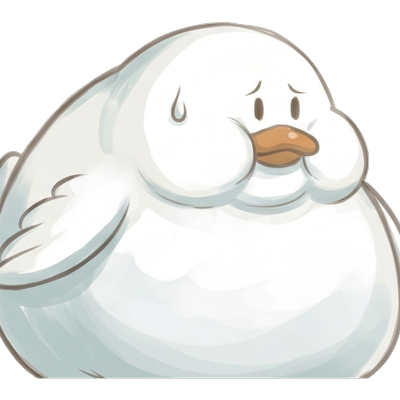
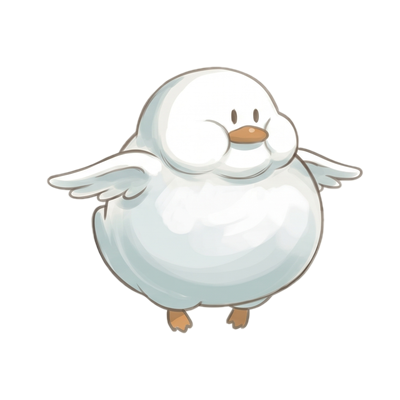
feat(game): mon 15 khong win, chase mode bay duoi la thu
User feedback:
- An mon 15 (tra sua) -> win luon (sai)
- Phai an mon 16 (la thu) moi win
- Sau khi an mon 15 -> bay vao vung khong co cot, duoi theo la thu
- Vịt bay nhanh hon thu 1 chut (~10s)
- La thu cung bay va chuyen dong

Moi:
- TARGET_SCORE 15 -> 16 (15 tra + 1 la thu)
- LETTER_TRIGGER_SCORE = 15 (moc trigger chase mode)
- KG math: 14 mon × 3 = 42 -> 72kg, mon 15 (tra) +3 = 75kg, mon 16 (la thu) +5 = 80kg
- LETTER_KG_BONUS 8 -> 5
- state machine: them 'chasing' state
- triggerChaseMode(): xoa het pipes, spawn la thu o giua canvas phai
  - La thu co vx, vy rieng, bay tu phai sang trai
  - flyStartY random trong +-50px
- updateChase(): la thu bay voi quy dao sin (lac), vịt gravity 0.4x, wingPhase 0.55 (nhanh hon)
- Collision chase: hitbox 35px (rong hon de de an)
- La thu bay ra khoi canvas trai -> respawn ben phai (vong lap, de an)
- Vịt gioi han trong canvas (khong roi)
- spawnPipe: khong spawn item neu state === 'chasing'

Recrop sprite (re-crop_duck_proper.py):
- 5 sprite vịt cu bi can chan o ria -> vang vuong
- Fix: tìm bbox body that (pixel khac trang), crop + padding 50px
- Resize fit TARGET_SIZE voi SAFE_MARGIN 30px (body khong cham ria)
- Result: margin 30-49px, body can doi
- 80kg: margin 30px (truoc 0px), 70kg: 45px (truoc 17px)

Cac sprite đã re-crop:
- duck-{30,45,60,70,80}kg-f{1,2,3}.png (15 file)

diff --git a/tmn/index.html b/tmn/index.html
@@ -1504,12 +1504,16 @@ Chúc cô gái của Nhân 20/10 thật vui vẻ và bình an nhé!</textarea>
       const PIPE_SPACING = 320;      // khoảng cách giữa các cặp ống
       const BIRD_X = 140;             // vị trí vịt cố định theo X
       const BIRD_RADIUS = 36;        // hitbox vịt (dùng cho collision) - frame 1.5x lớn hơn
-      const TARGET_SCORE = 15;       // lụm 15 món = win
-      const WIN_KG = 80;             // đạt 80kg = win (ăn 15 món × 5 = 75, món 15 = 80)
+      const TARGET_SCORE = 16;       // 15 trà/bún + 1 lá thư = 16 món = win
+      const LETTER_TRIGGER_SCORE = 15;  // mốc spawn lá thư + vào chase state
+      const WIN_KG = 80;             // đạt 80kg = win
       const BASE_KG = 30;
-      const KG_PER_ITEM = 3;         // 14 món đầu × 3 = 42 → 72kg; món 15 (lá thư) +8 → 80kg
-      const LETTER_KG_BONUS = 8;     // lá thư cho nhiều kg hơn (món cuối)
+      const KG_PER_ITEM = 3;         // 14 món đầu × 3 = 42 → 72kg
+      const LETTER_KG_BONUS = 5;     // lá thư +5kg → 80kg
       const MAX_KG = WIN_KG;         // 80
+      // Chase state: lá thư bay tự do, vịt đuổi theo
+      const LETTER_FLY_SPEED = 1.6;  // lá thư bay chậm hơn PIPE_SPEED (2.6)
+      const CHASE_BOOST = 1.4;       // vịt bay nhanh hơn 40% khi chase
 
       // Mật khẩu (security through obscurity - base64)
       // User đặt riêng: "171" (Ngọc sinh ngày 17/1/2007)
@@ -1622,6 +1626,32 @@ Chúc cô gái của Nhân 20/10 thật vui vẻ và bình an nhé!</textarea>
       let animId = null;
 
       // Spawn pipe mỗi PIPE_SPACING px
+      // ===== CHASE MODE (sau khi ăn 15 món) =====
+      // Lá thư tự bay, vịt đuổi theo, KHÔNG có ống chướng ngại
+      let chaseTime = 0;  // đếm frame trong chase
+      function triggerChaseMode() {
+        console.log('[tmn] CHASE MODE triggered! Lá thư xuất hiện...');
+        state = 'chasing';
+        chaseTime = 0;
+        // Xóa hết ống cũ → vùng trời trống
+        pipes = [];
+        // Spawn lá thư ở giữa bên phải canvas
+        const letterStartX = CANVAS_W - 100;
+        const letterStartY = CANVAS_H / 2;
+        // Lá thư có vận tốc riêng: bay từ phải sang trái + lắc Y (sin)
+        items.push({
+          x: letterStartX,
+          y: letterStartY,
+          isLetter: true,
+          collected: false,
+          wobblePhase: 0,
+          vx: -LETTER_FLY_SPEED,  // bay sang trái
+          vy: 0,
+          flyStartX: letterStartX,
+          flyStartY: letterStartY,
+        });
+      }
+
       function spawnPipe() {
         const minGapY = 150;
         const maxGapY = CANVAS_H - 150 - PIPE_GAP;
@@ -1632,16 +1662,8 @@ Chúc cô gái của Nhân 20/10 thật vui vẻ và bình an nhé!</textarea>
         const itemX = CANVAS_W + 50 + PIPE_SPACING / 2;
         const itemY = gapY + PIPE_GAP / 2 - 30;  // giữa gap, trừ 30 để căn giữa item
 
-        // Món cuối (sau khi ăn 14 món) = lá thư → vịt ăn → màn hình win
-        if (score >= TARGET_SCORE - 1 && collectibles.length > 0) {
-          items.push({
-            x: itemX, y: itemY,
-            isLetter: true,         // marker vẽ lá thư bằng code
-            collected: false,
-            wobblePhase: Math.random() * Math.PI * 2,
-          });
-          return;
-        }
+        // Không spawn item nếu đang ở chase mode (lá thư do triggerChaseMode spawn riêng)
+        if (state === 'chasing') return;
 
         if (collectibles.length === 0) return;
         const sprite = collectibles[Math.floor(Math.random() * collectibles.length)];
@@ -1651,8 +1673,17 @@ Chúc cô gái của Nhân 20/10 thật vui vẻ và bình an nhé!</textarea>
 
       // ===== UPDATE LOOP =====
       function update() {
-        if (state !== 'playing') return;
+        if (state === 'idle' || state === 'won' || state === 'lost') return;
         frameCount++;
+        chaseTime++;
+
+        // CHASING MODE: lá thư bay tự do, vịt đuổi
+        if (state === 'chasing') {
+          updateChase();
+          return;
+        }
+
+        // PLAYING MODE (còn lại như cũ)
 
         // Spawn pipe đầu tiên sau 60 frame (~1s warmup)
         if (frameCount === 60) spawnPipe();
@@ -1710,6 +1741,10 @@ Chúc cô gái của Nhân 20/10 thật vui vẻ và bình an nhé!</textarea>
               gameWin();
               return;
             }
+            // Mốc 15 món trà/bún → trigger chase mode (sau 100ms)
+            if (score === LETTER_TRIGGER_SCORE && !it.isLetter) {
+              setTimeout(() => triggerChaseMode(), 100);
+            }
           }
         }
 
@@ -1717,6 +1752,53 @@ Chúc cô gái của Nhân 20/10 thật vui vẻ và bình an nhé!</textarea>
         if (bird.y + BIRD_RADIUS >= CANVAS_H || bird.y - BIRD_RADIUS <= 0) {
           gameOver();
         }
+      }
+
+      // ===== CHASE MODE UPDATE =====
+      // Lá thư tự bay + vịt đuổi theo, KHÔNG có ống chướng ngại
+      function updateChase() {
+        for (const it of items) {
+          if (!it.isLetter || it.collected) continue;
+          // Bay từ phải sang trái (vx < 0)
+          it.x += it.vx;
+          // Lắc theo sin: quỹ đạo cong
+          it.y = (it.flyStartY || CANVAS_H / 2) + Math.sin(chaseTime * 0.04) * 80;
+          // Wobble nhẹ (cho lá thư vẫn rung)
+          it.wobblePhase = (it.wobblePhase || 0) + 0.08;
+          // Bay ra khỏi canvas bên trái → respawn từ phải (dễ ăn hơn)
+          if (it.x < -50) {
+            it.x = CANVAS_W + 50;
+            it.flyStartY = CANVAS_H / 2 + (Math.random() - 0.5) * 100;
+          }
+        }
+
+        // Vịt gravity nhẹ (dễ bay hơn trong chase)
+        bird.vy += GRAVITY * 0.4;
+        bird.y += bird.vy;
+        bird.vy = Math.max(-12, Math.min(12, bird.vy));
+        bird.rotation = Math.max(-0.5, Math.min(1.2, bird.vy * 0.06));
+        // Wing animation nhanh hơn (đang đuổi!)
+        bird.wingPhase += 0.55;
+
+        // Collision: vịt với lá thư
+        for (const it of items) {
+          if (!it.isLetter || it.collected) continue;
+          const dx = bird.x - it.x;
+          const dy = bird.y - it.y;
+          const dist = Math.sqrt(dx * dx + dy * dy);
+          if (dist < BIRD_RADIUS + 35) {
+            it.collected = true;
+            score++;
+            currentKg = Math.min(WIN_KG, currentKg + LETTER_KG_BONUS);
+            spawnFloatingKg(it.x, it.y);
+            playCollectSound();
+            gameWin();
+            return;
+          }
+        }
+
+        // Giới hạn vịt trong canvas (không rơi xuống đất)
+        bird.y = Math.max(BIRD_RADIUS, Math.min(CANVAS_H - BIRD_RADIUS, bird.y));
       }
 
       // ===== RENDER =====

diff --git a/tools/asset-processing/recrop_duck_proper.py b/tools/asset-processing/recrop_duck_proper.py
@@ -1,0 +1,146 @@
+"""Re-crop duck sprite TIGHT theo body thật, giữ margin đầy đủ.
+
+Ảnh gốc 3168x1344 RGBA (thực tế là nền trắng, alpha=255 everywhere),
+3 frame NGANG, mỗi frame 1056x1344.
+
+Bug cũ:
+- recrop_duck_tight.py cũ lấy bbox alpha > 10 -> 4 cạnh = full canvas
+- Vì alpha=255 ở nền trắng, bbox = full frame
+- Body vịt 80kg có chân chạm rìa -> viền vuông
+
+Fix:
+- Tìm bbox vật thể (pixel KHÁC trắng, tolerance 30) trên ảnh RGB
+- Crop body + padding 50px
+- Resize fit vào canvas 400x400 (giữ tỉ lệ - không méo)
+- Tách nền trắng bằng flood-fill 4 góc -> alpha
+- Embed body fit vào canvas vuông 400x400 (transparent)
+- Kết quả: vịt nằm gọn trong canvas, KHÔNG chạm rìa, có margin
+"""
+
+from PIL import Image
+import numpy as np
+from pathlib import Path
+
+SRC_DIR = Path(r'C:\Users\nguye\Desktop\tmn 2010')
+OUT_DIR = Path(r'C:\Users\nguye\bersious-web\assets\game\processed')
+TARGET_SIZE = 400
+PADDING = 50  # margin xung quanh body
+SAFE_MARGIN = 30  # margin tối thiểu trong canvas (đảm bảo body không chạm rìa)
+COLOR_TOLERANCE = 30  # pixel khác trắng > 30 = vật thể
+
+
+def find_body_bbox(arr: np.ndarray) -> tuple:
+    """Tìm bbox body vịt (pixel không trắng) trên ảnh RGB."""
+    diff = np.abs(arr.astype(int) - 255).sum(axis=2)
+    fg = diff > COLOR_TOLERANCE
+    ys, xs = np.where(fg)
+    if len(xs) == 0:
+        return None
+    return (xs.min(), ys.min(), xs.max(), ys.max())
+
+
+def flood_fill_background(arr_rgb: np.ndarray) -> np.ndarray:
+    """Flood-fill nền trắng từ 4 góc."""
+    h, w, _ = arr_rgb.shape
+    seed = arr_rgb[0, 0].astype(int)
+    visited = np.zeros((h, w), dtype=bool)
+    is_bg = np.zeros((h, w), dtype=bool)
+    stack = [(0, 0), (0, w - 1), (h - 1, 0), (h - 1, w - 1)]
+
+    while stack:
+        y, x = stack.pop()
+        if y < 0 or y >= h or x < 0 or x >= w or visited[y, x]:
+            continue
+        visited[y, x] = True
+        diff = arr_rgb[y, x].astype(int) - seed
+        if np.sqrt((diff * diff).sum()) > COLOR_TOLERANCE:
+            continue
+        is_bg[y, x] = True
+        stack.extend([(y + 1, x), (y - 1, x), (y, x + 1), (y, x - 1)])
+
+    return is_bg
+
+
+def feather_alpha(alpha: np.ndarray, radius: int = 1) -> np.ndarray:
+    from PIL import ImageFilter
+    return np.array(Image.fromarray(alpha).filter(ImageFilter.GaussianBlur(radius=radius)))
+
+
+def recrop_frame(frame_arr: np.ndarray, name: str) -> Image:
+    """Từ 1 frame ảnh gốc -> sprite 400x400 transparent."""
+    h, w = frame_arr.shape[:2]
+    print(f'    Source: {w}x{h}')
+
+    # 1. Tìm bbox body thật
+    bbox = find_body_bbox(frame_arr)
+    if bbox is None:
+        print(f'    WARN: no body found')
+        return None
+    x0, y0, x1, y1 = bbox
+    body_w, body_h = x1 - x0 + 1, y1 - y0 + 1
+    print(f'    Body bbox: x={x0}-{x1} (w={body_w}), y={y0}-{y1} (h={body_h})')
+
+    # 2. Crop body + padding
+    px0 = max(0, x0 - PADDING)
+    py0 = max(0, y0 - PADDING)
+    px1 = min(w - 1, x1 + PADDING)
+    py1 = min(h - 1, y1 + PADDING)
+    cropped = frame_arr[py0:py1 + 1, px0:px1 + 1]
+    print(f'    Cropped: {cropped.shape[1]}x{cropped.shape[0]}')
+
+    # 3. Resize fit TARGET_SIZE (giữ tỉ lệ, đảm bảo body + margin nằm gọn)
+    cw, ch = cropped.shape[1], cropped.shape[0]
+    # Scale để vừa body + SAFE_MARGIN mỗi bên -> body nằm trong vùng (TARGET_SIZE - 2*SAFE_MARGIN)
+    safe_size = TARGET_SIZE - 2 * SAFE_MARGIN
+    scale = min(safe_size / cw, safe_size / ch)
+    new_w, new_h = int(cw * scale), int(ch * scale)
+    pil_rgb = Image.fromarray(cropped).resize((new_w, new_h), Image.LANCZOS)
+    print(f'    Resized: {new_w}x{new_h} (safe margin {SAFE_MARGIN}px)')
+
+    # 4. Tách nền trắng -> alpha
+    rgb_arr = np.array(pil_rgb)
+    is_bg = flood_fill_background(rgb_arr)
+    alpha = np.where(is_bg, 0, 255).astype(np.uint8)
+    alpha = feather_alpha(alpha, radius=1)
+    transp = (alpha == 0).sum() / alpha.size * 100
+    print(f'    Transparent: {transp:.1f}%')
+
+    # 5. Embed vào canvas vuông TARGET_SIZE
+    rgba = np.zeros((TARGET_SIZE, TARGET_SIZE, 4), dtype=np.uint8)
+    oy = (TARGET_SIZE - new_h) // 2
+    ox = (TARGET_SIZE - new_w) // 2
+    rgba[oy:oy + new_h, ox:ox + new_w, :3] = rgb_arr
+    rgba[oy:oy + new_h, ox:ox + new_w, 3] = alpha
+
+    return Image.fromarray(rgba, 'RGBA')
+
+
+def process_one(src_name: str, kg: str):
+    print(f'\n=== {kg}kg ===')
+    src = SRC_DIR / src_name
+    if not src.exists():
+        print(f'  MISSING: {src}')
+        return
+
+    img = np.array(Image.open(src).convert('RGB'))
+    # 3 frame NGANG, mỗi frame 1056x1344
+    frame_w = img.shape[1] // 3
+    frames = [
+        img[:, 0:frame_w],
+        img[:, frame_w:frame_w * 2],
+        img[:, frame_w * 2:frame_w * 3],
+    ]
+
+    for i, frame in enumerate(frames, 1):
+        print(f'\n  -- Frame {i} --')
+        result = recrop_frame(frame, f'frame{i}')
+        if result is None:
+            continue
+        out = OUT_DIR / f'duck-{kg}kg-f{i}.png'
+        result.save(out, optimize=True)
+        print(f'  SAVED: {out.name} ({out.stat().st_size / 1024:.0f}KB)')
+
+
+if __name__ == '__main__':
+    for kg in ['30', '45', '60', '70', '80']:
+        process_one(f'duck-{kg}kg-fly.png', kg)
